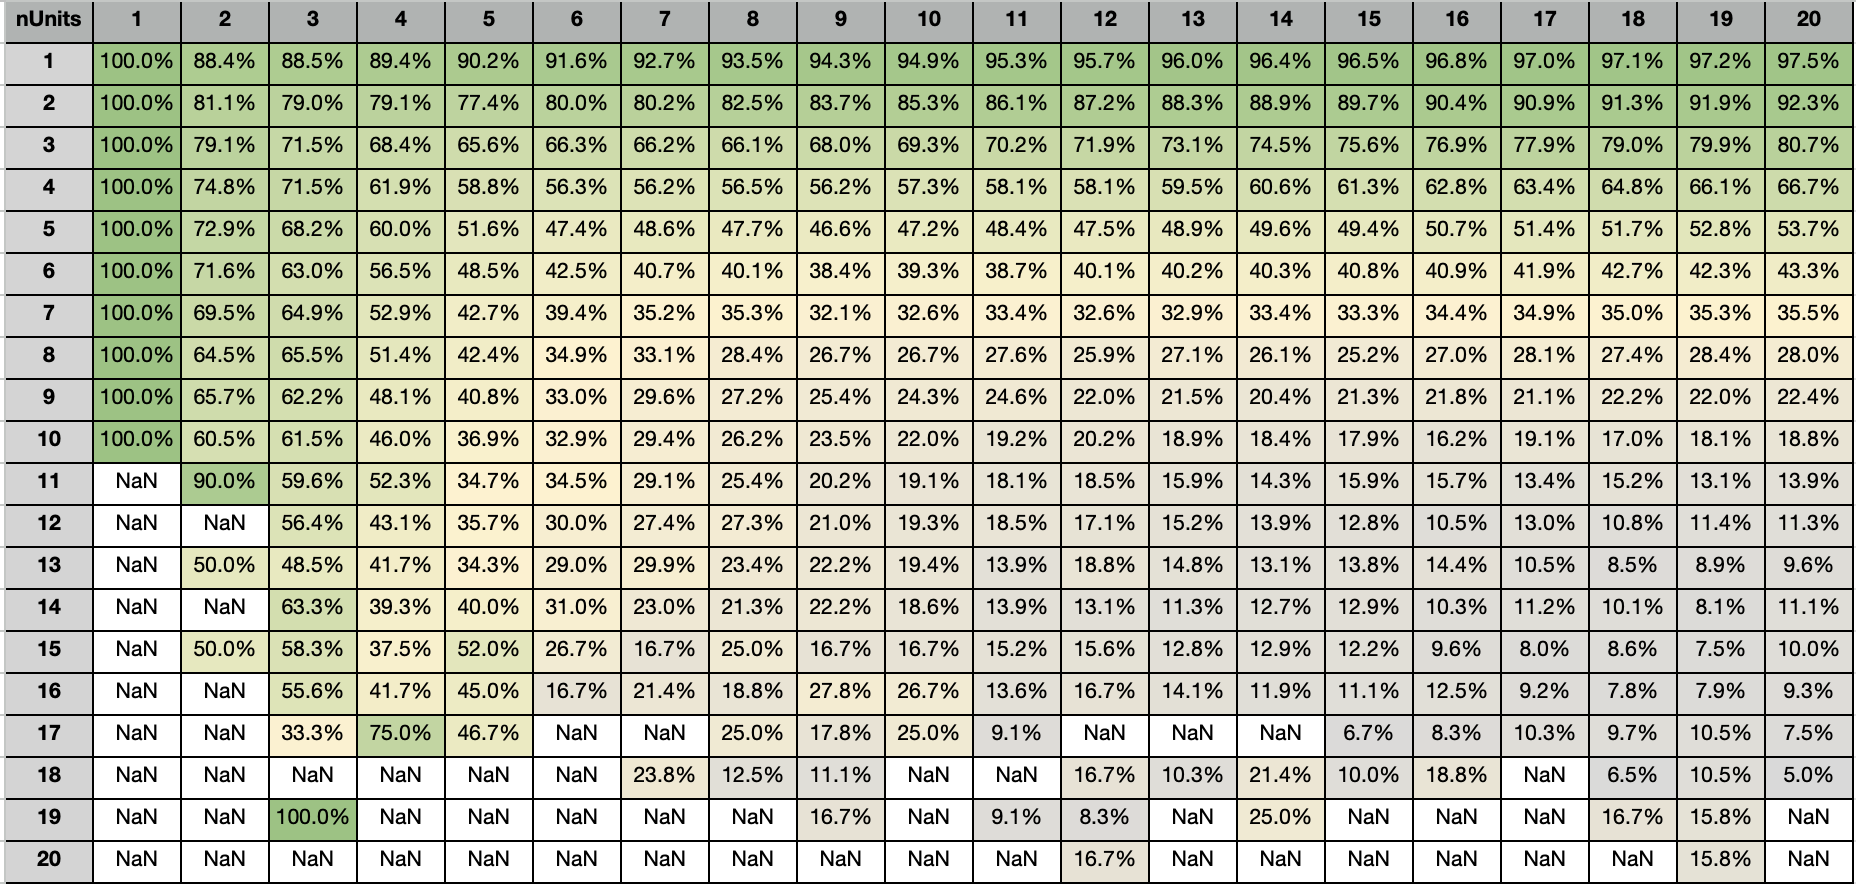
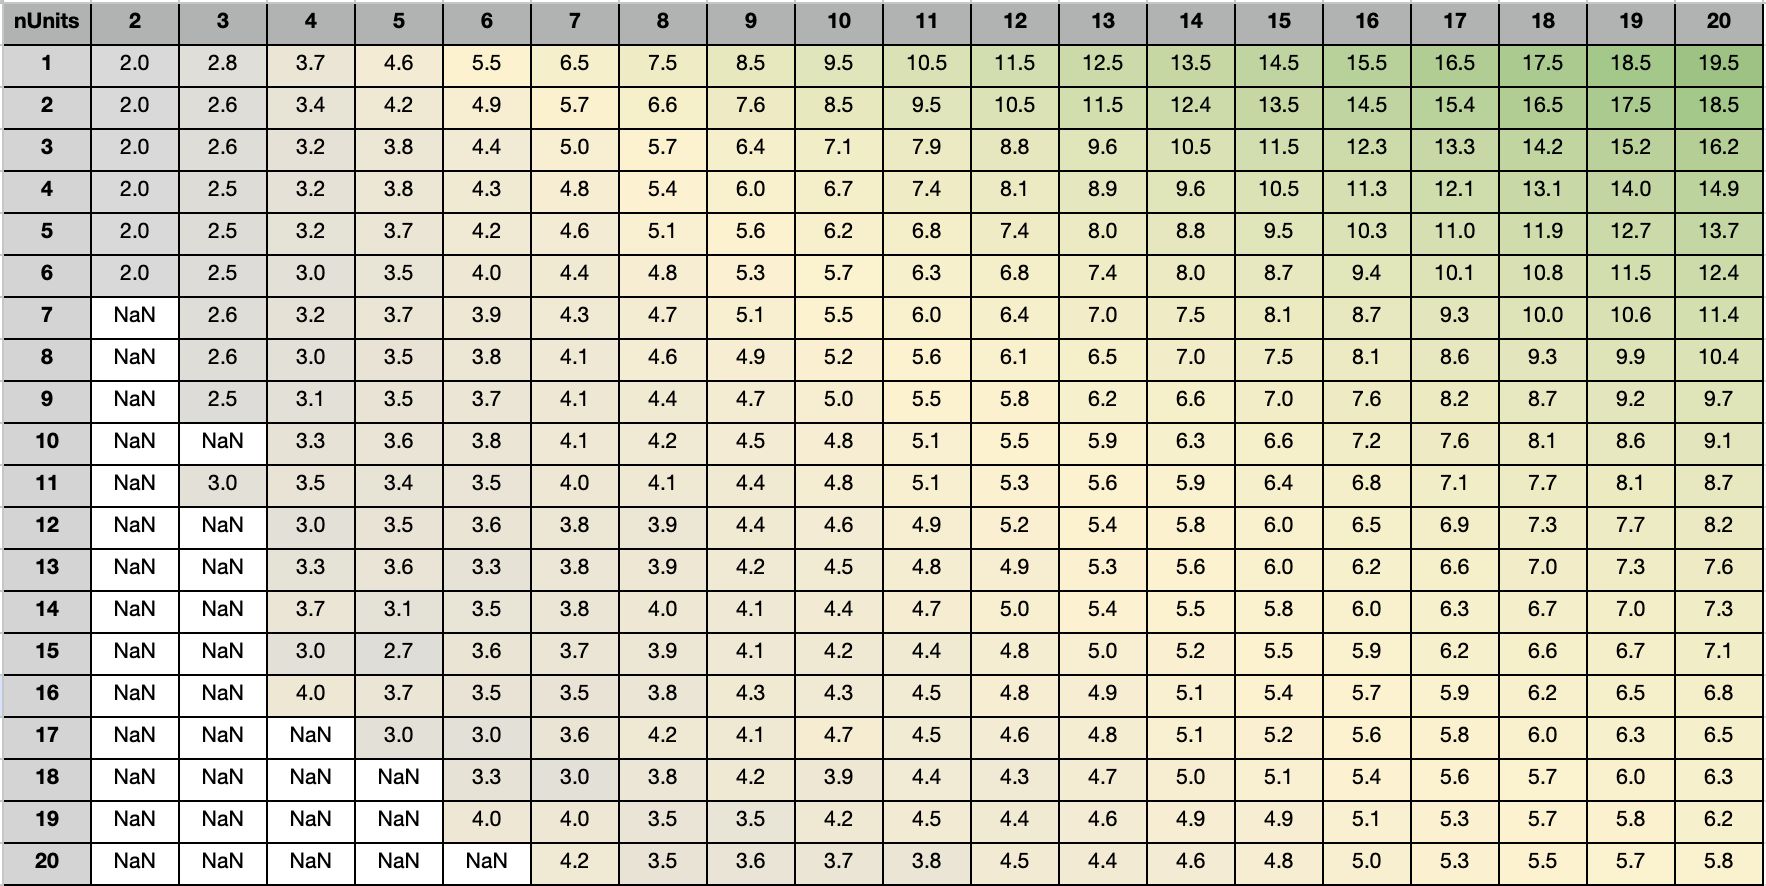
Updated results

diff --git a/main.go b/main.go
@@ -63,16 +63,16 @@ func generateCSVTables(simResult risiko.SimulationSweep, unitsSweep int) {
 		expectedAttackersLeftRow := []string{strconv.Itoa(nDefenders)} // First column: nDefenderUnits
 
 		// Iterate over attacker units (columns)
-		for nAttackers := 1; nAttackers <= unitsSweep; nAttackers++ {
+		for nAttackers := risiko.BATTLE_RULE_MIN_ATTACK; nAttackers <= unitsSweep; nAttackers++ {
 			result := simResult[nAttackers][nDefenders]
 
 			// Calculate the victory percentage for the attacker
 			victoryPercentage := float64(result.NAttackerWon) / float64(result.NRuns)
 			victoryRow = append(victoryRow, fmt.Sprintf("%.6f", victoryPercentage))
 
-			// Calculate the percentage of attackers left
-			attackersLeftPercentage := float64(result.TotalAttackerUnitsLeft) / float64(nAttackers*result.NAttackerWon)
-			attackersLeftRow = append(attackersLeftRow, fmt.Sprintf("%.6f", attackersLeftPercentage))
+			// Calculate units left when won
+			attackersLeftCount := float64(result.TotalAttackerUnitsLeft-(result.NRuns-result.NAttackerWon)) / float64(result.NAttackerWon)
+			attackersLeftRow = append(attackersLeftRow, fmt.Sprintf("%.6f", attackersLeftCount))
 
 			// Calculate the percentage of expected attackers left
 			expectedAttackersLeftPercentage := float64(result.TotalAttackerUnitsLeft) / float64(nAttackers*result.NRuns)
@@ -88,7 +88,7 @@ func generateCSVTables(simResult risiko.SimulationSweep, unitsSweep int) {
 	if err := saveCSV("victory_percentage.csv", header, victoryTable); err != nil {
 		log.Fatalf("Error saving victory table: %v", err)
 	}
-	if err := saveCSV("attackers_left_percentage.csv", header, attackersLeftTable); err != nil {
+	if err := saveCSV("attackers_left.csv", header, attackersLeftTable); err != nil {
 		log.Fatalf("Error saving attackers left table: %v", err)
 	}
 	if err := saveCSV("expected_attackers_left_percentage.csv", header, expectedAttackersLeftTable); err != nil {

diff --git a/pkg/risiko/war_test.go b/pkg/risiko/war_test.go
@@ -108,7 +108,7 @@ func TestWarResults(t *testing.T) {
 		state    WarState
 	}
 	testCases := []TestCase{}
-	for a := 1; a <= maxAttackers; a++ {
+	for a := BATTLE_RULE_MIN_ATTACK; a <= maxAttackers; a++ {
 		for d := 1; d <= maxDefenders; d++ {
 			for i := 0; i < nWars; i++ {
 				testCases = append(testCases, TestCase{
@@ -167,8 +167,8 @@ func TestSimulate(t *testing.T) {
 			name:        "normal cheater",
 			attacker:    NewMaxAttackersStrategy(createTestSingleSidedDicesGen(6)),
 			defender:    NewMaxDefendersStrategy(createTestSingleSidedDicesGen(6)),
-			nUnitsSweep: 20,
-			nRuns:       10000,
+			nUnitsSweep: 3,
+			nRuns:       5,
 		},
 	}
 
@@ -179,7 +179,7 @@ func TestSimulate(t *testing.T) {
 				t.Errorf("Unexpected error %v", err)
 			}
 
-			for a := 1; a <= tc.nUnitsSweep; a++ {
+			for a := BATTLE_RULE_MIN_ATTACK; a <= tc.nUnitsSweep; a++ {
 				for d := 1; d <= tc.nUnitsSweep; d++ {
 					if _, ok := result[a]; !ok {
 						t.Errorf("unexpected empty object for %d attackers", a)

diff --git a/pkg/risiko/war.go b/pkg/risiko/war.go
@@ -69,7 +69,7 @@ func Simulate(ctx context.Context, nRuns int, nUnitsSweep int, attackerStrategy 
 
 	go func() {
 		for nDefenders := 1; nDefenders <= nUnitsSweep; nDefenders++ {
-			for nAttackers := 1; nAttackers <= nUnitsSweep; nAttackers++ {
+			for nAttackers := BATTLE_RULE_MIN_ATTACK; nAttackers <= nUnitsSweep; nAttackers++ {
 				go func(nAtt int, nDef int) {
 					for i := 0; i < nRuns; i++ {
 						initialState := WarState{
@@ -132,7 +132,7 @@ func Simulate(ctx context.Context, nRuns int, nUnitsSweep int, attackerStrategy 
 			}
 
 			simsCount++
-			if simsCount == nRuns*nUnitsSweep*nUnitsSweep {
+			if simsCount == nRuns*(nUnitsSweep-(BATTLE_RULE_MIN_ATTACK-1))*nUnitsSweep {
 				return simResult, nil
 			}
 		}

diff --git a/README.md b/README.md
@@ -15,6 +15,6 @@ Red = Attacker wins most of the times, Blue = Defender wins most of the times
 
 ![Expected Units Left](resources/expected_units_left.png)
 
-## Average % of units left when attacker wins
+## Average units left when attacker wins
 
 ![Units Left](resources/units_left.png)
